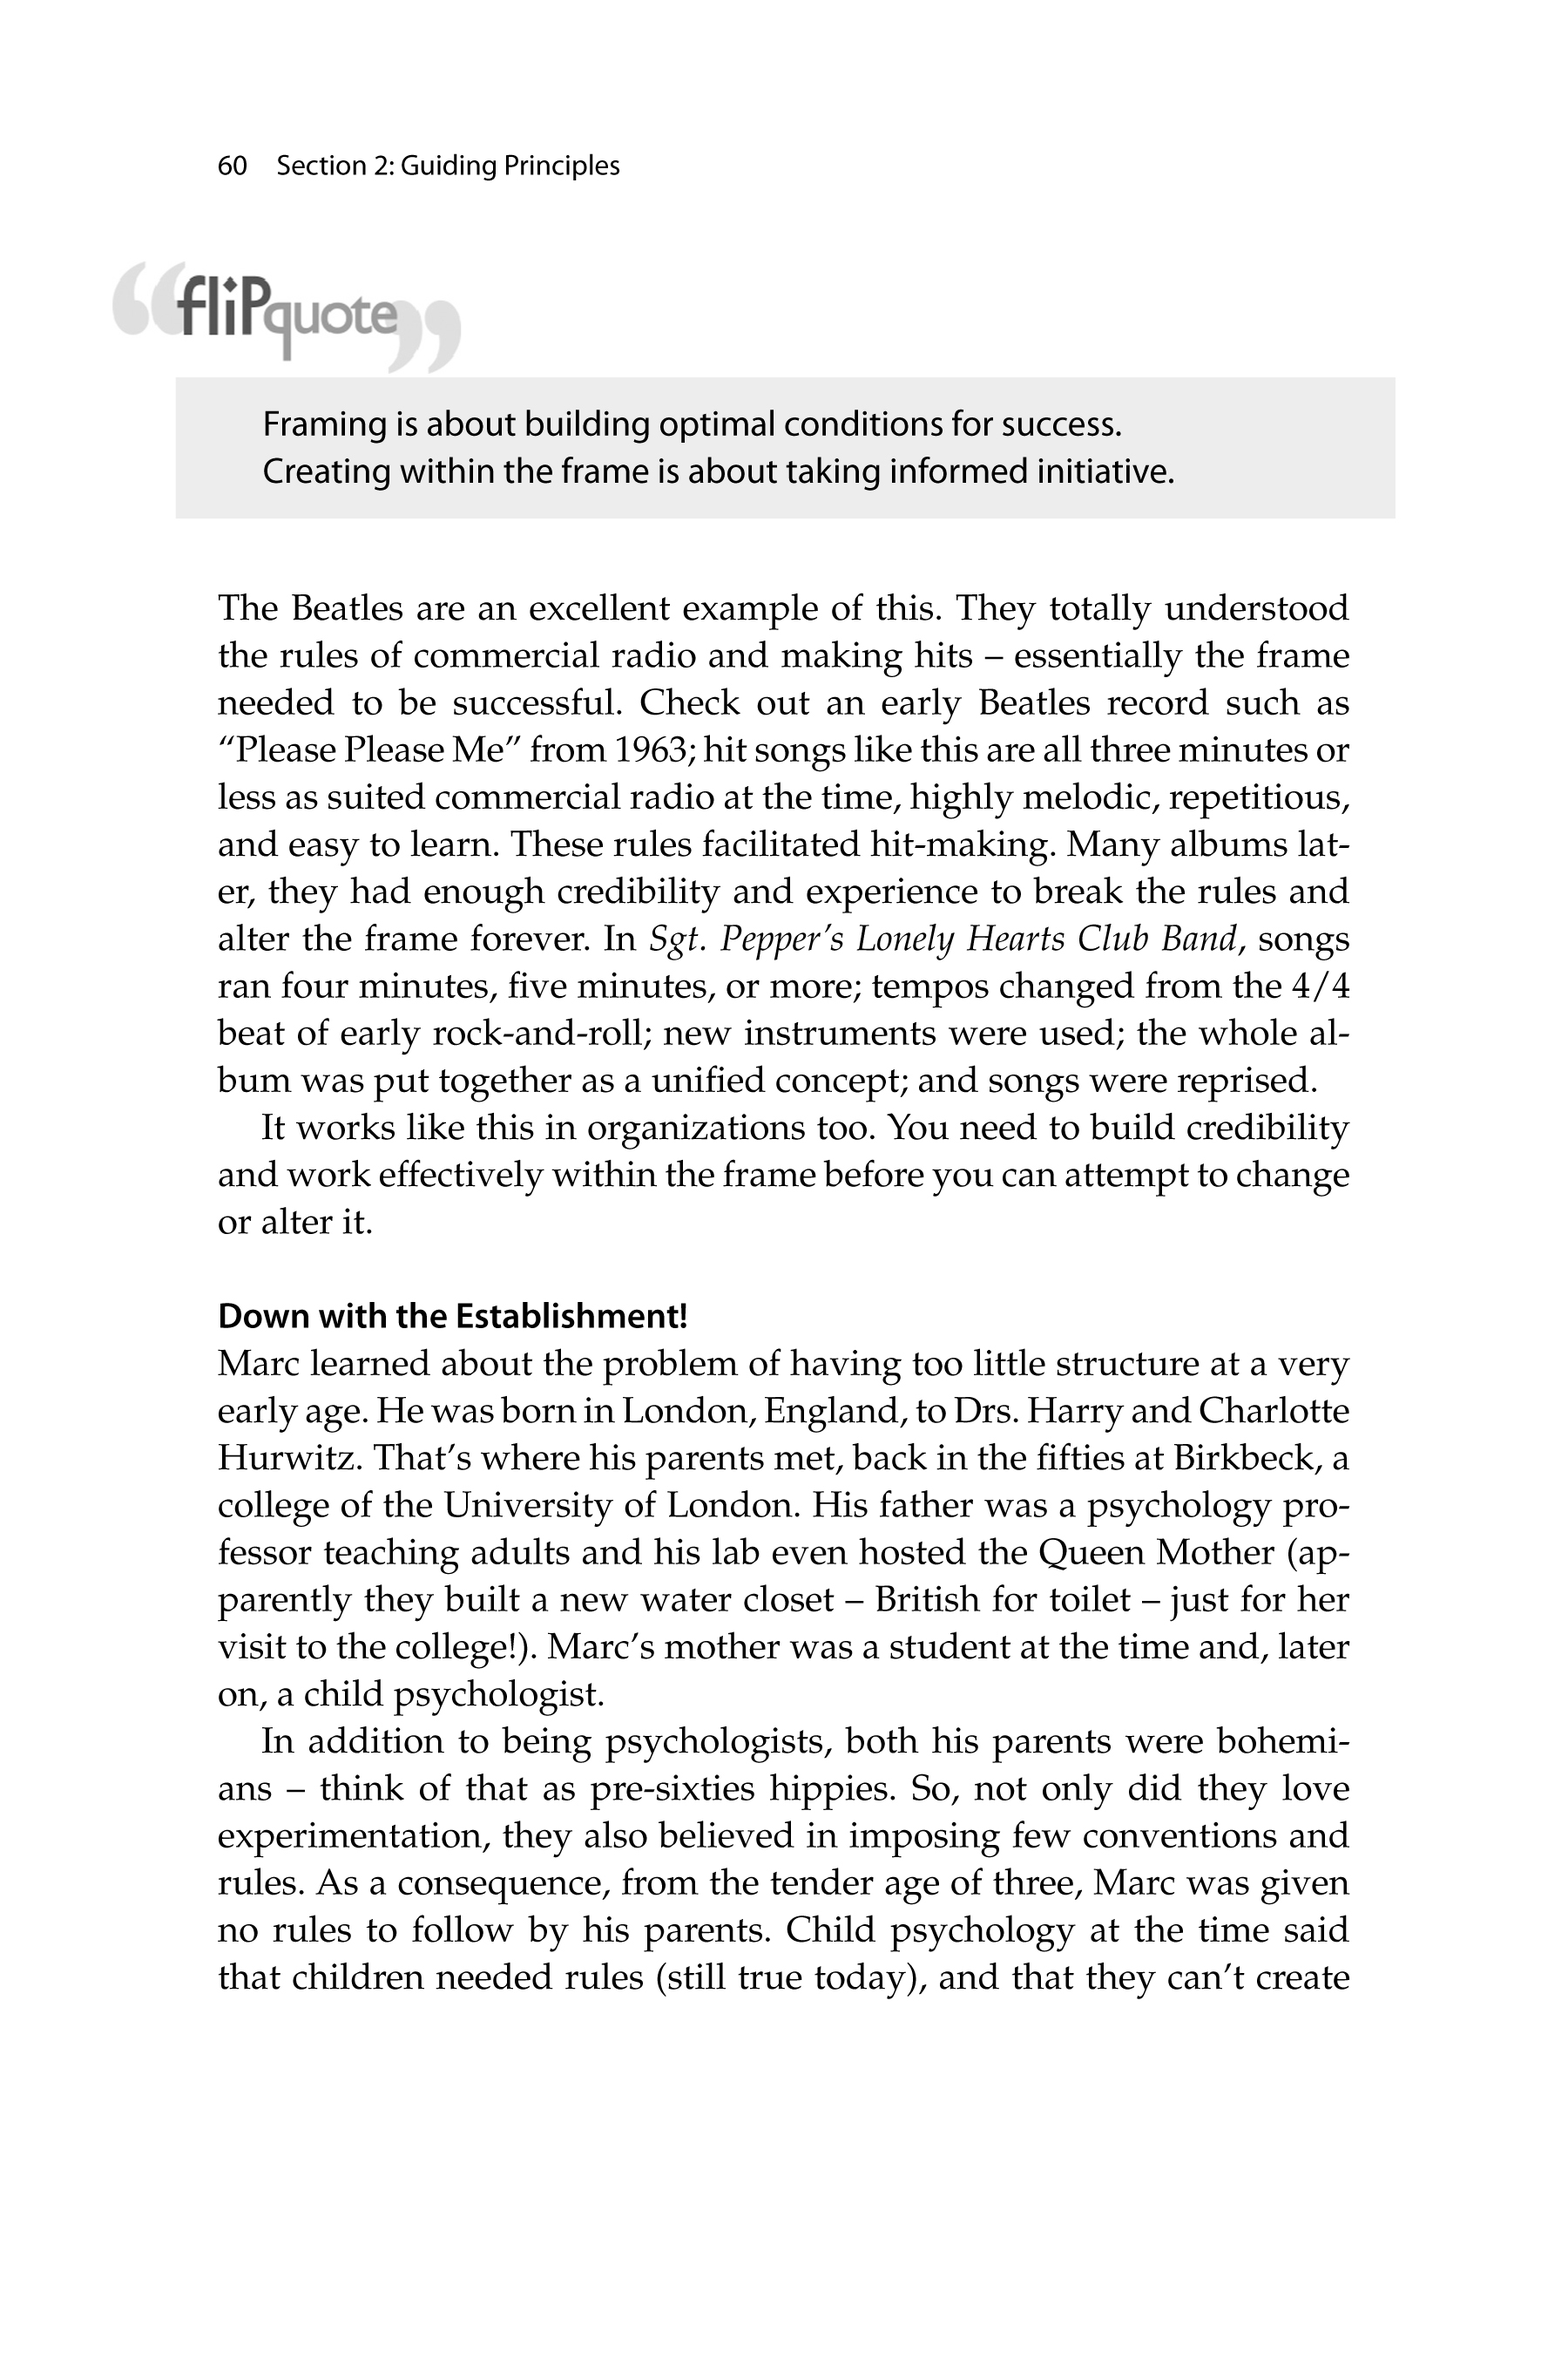
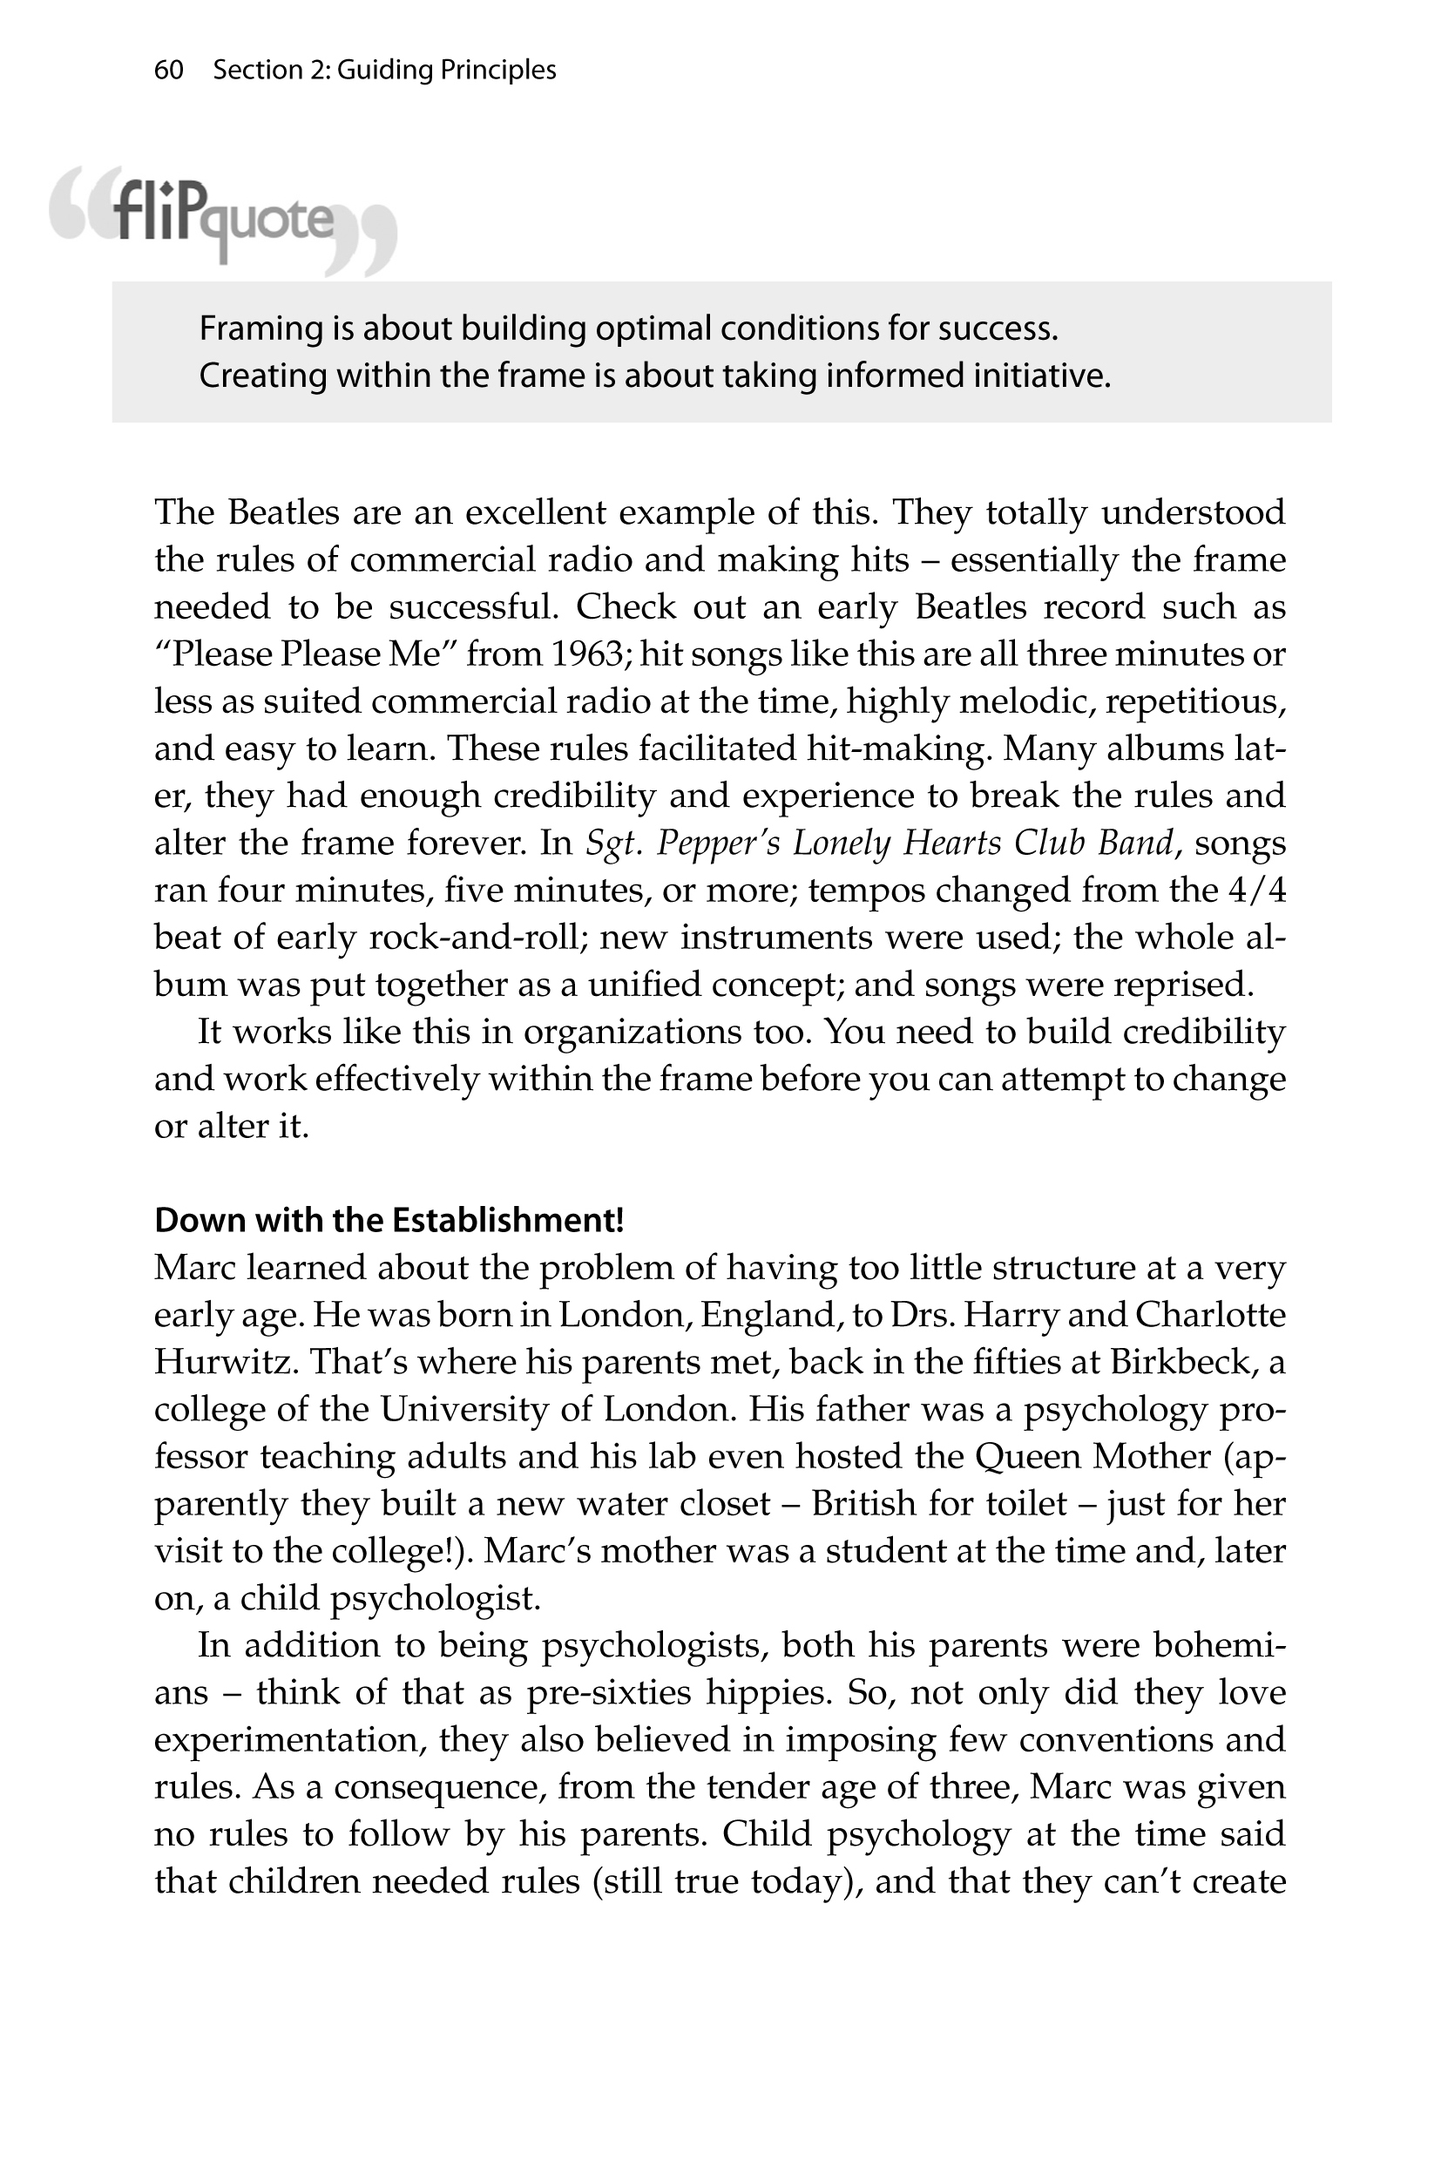
fixed book images

Changed region(s): [[0.0308, 0.0621, 0.8942, 0.5278], [0.0925, 0.5589, 0.8942, 0.8694], [0.2775, 0.0621, 0.4008, 0.0931]]

diff --git a/_layouts/bookpreview.html b/_layouts/bookpreview.html
@@ -13,12 +13,11 @@
         </a>
     </header>
 
-    <div class="page-content">
-        <div class="container-fluid">
-            {{ content }}
-        </div>
+    <div class="page-content container-fluid">
+        {{ content }}
     </div>
 
-    {% include footer.html %}
+   <script src="https://ajax.googleapis.com/ajax/libs/jquery/1.11.1/jquery.min.js"></script>
+    <script src="https://maxcdn.bootstrapcdn.com/bootstrap/3.3.1/js/bootstrap.min.js"></script>
 
 </div>

diff --git a/book-preview.html b/book-preview.html
@@ -4,7 +4,7 @@ layout: bookpreview
 <script src="lib/modernizr.custom.js"></script>
 
 <div class="container-fluid book-preview">
-    <div class="book-preview-container col-xs-12 col-md-10 col-md-offset-1">
+    <div class="book-preview-container col-xs-12 col-md-10 col-md-offset-1 col-lg-8 col-lg-offset-2">
 			<div class="bb-custom-wrapper">
 				
 				<div id="bb-bookblock" class="bb-bookblock">

diff --git a/_sass/pages/_bookpreview.scss b/_sass/pages/_bookpreview.scss
@@ -52,8 +52,8 @@
 	background-color: #EFEFEF;
 }
 
-.book-preview-container {
-	padding: 7em 0 5em;
+.bb-custom-wrapper {
+	margin: 6em 0;
 	z-index: 0;
 	p {
 		color: $grey;
